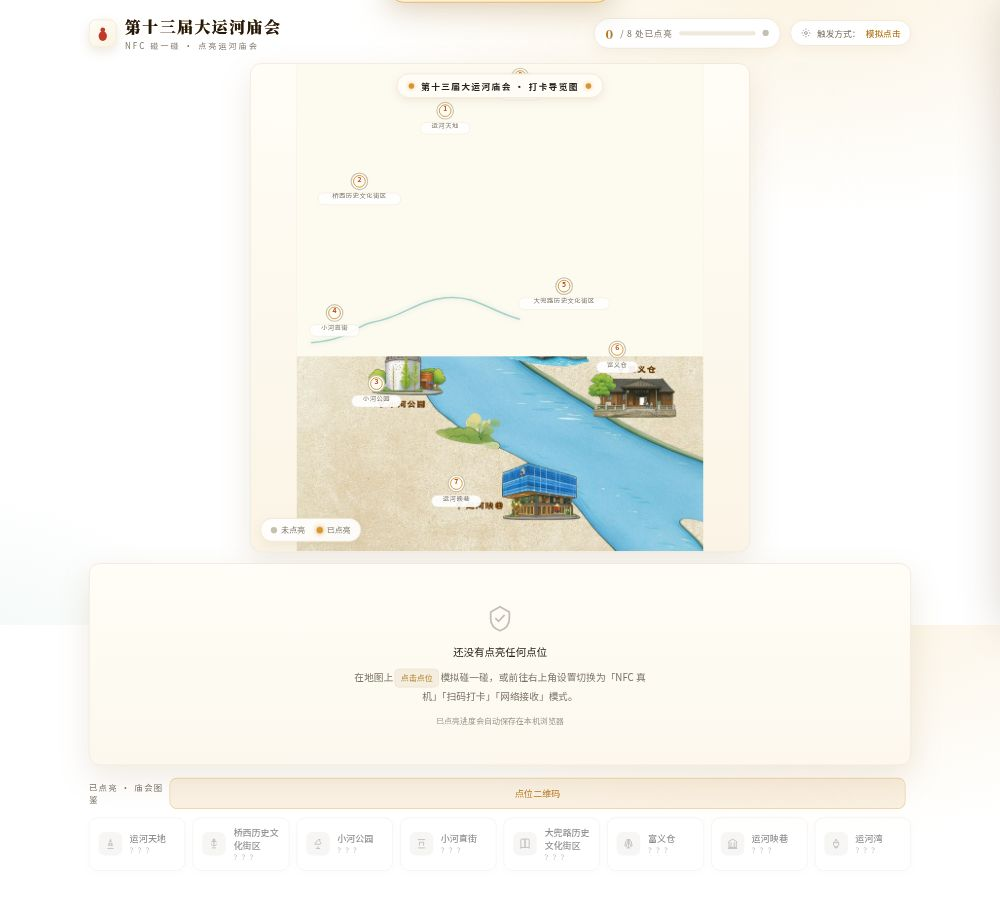
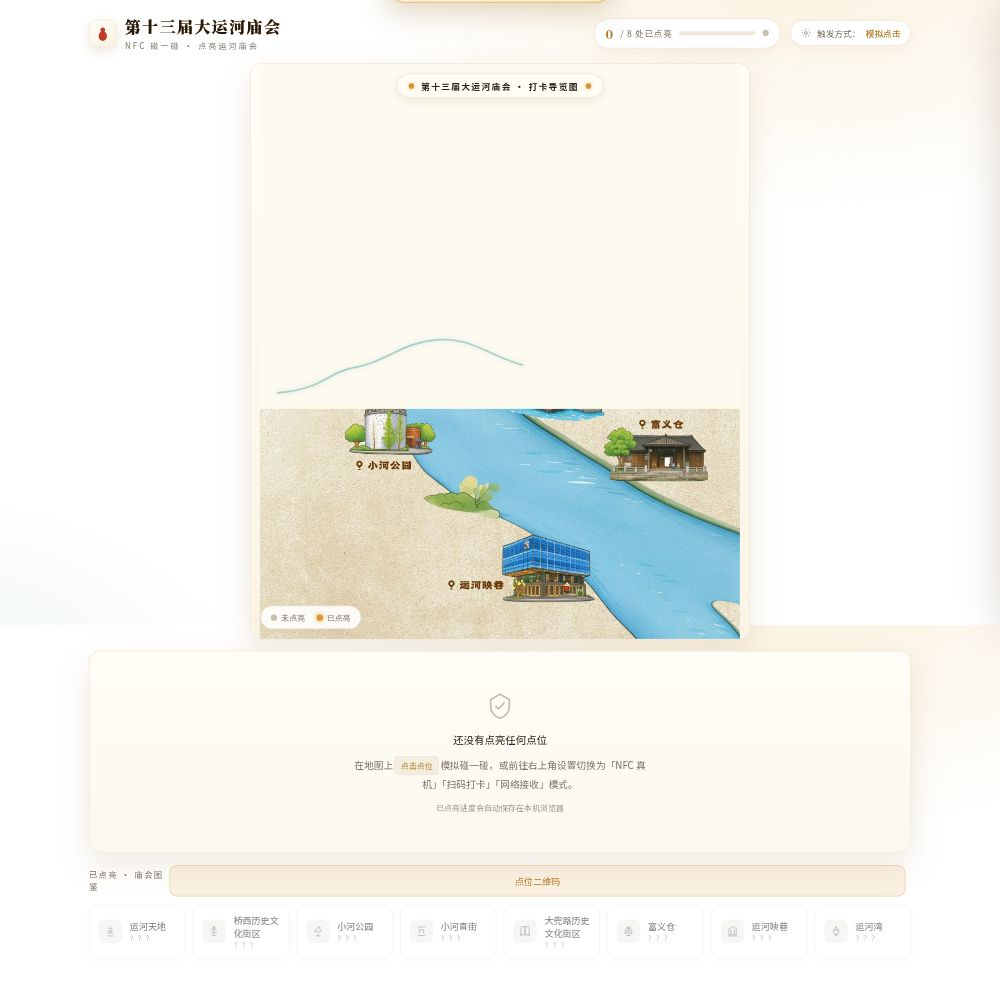
去掉程序叠编号与点位名(用户图自带)，底图放大并一屏内完整显示，点位透明热区可点

diff --git a/index.html b/index.html
@@ -70,7 +70,7 @@ button{font-family:inherit;cursor:pointer;border:none;background:none;color:inhe
   radial-gradient(900px 420px at 50% -5%, #fffdf5 0%, rgba(255,253,245,0) 60%),
   linear-gradient(180deg,#fffdf6,#fbf4e6);
   border:1px solid var(--line);box-shadow:var(--shadow);width:100%;max-width:720px;margin:0 auto}
-.stage svg.svg-map{display:block;width:auto;height:min(78vh,720px);max-width:100%;margin:0 auto}
+.stage svg.svg-map{display:block;width:auto;height:min(92vh,1000px);max-width:100%;margin:0 auto}
 .legend{position:absolute;left:14px;bottom:14px;display:flex;gap:16px;font-size:11.5px;color:var(--paper-dim);background:rgba(255,255,255,.9);backdrop-filter:blur(6px);padding:8px 14px;border-radius:999px;border:1px solid var(--line);box-shadow:0 6px 16px rgba(150,115,60,.1)}
 .legend i{display:inline-block;width:9px;height:9px;border-radius:50%;margin-right:6px;vertical-align:-1px}
 .legend .li{display:flex;align-items:center}
@@ -104,6 +104,8 @@ svg .terrain{fill:rgba(150,115,60,.05)}
 svg .island{fill:rgba(143,196,186,.16)}
 /* 自定义地图时隐藏内置插画/河流 */
 .has-map .terrain,.has-map .island,.has-map #riverPath,.has-map .deco,.has-map .pt .art{display:none}
+.has-map .pt .num,.has-map .pt .num-bg,.has-map .pt .label,.has-map .pt .label-bg,.has-map .pt .halo,.has-map .pt .pulse{display:none}
+.has-map .pt:not(.lit) .ring,.has-map .pt:not(.lit) .core{display:none}
 
 /* ===== 交互面板 ===== */
 .panel{position:relative;margin-top:16px;border-radius:var(--radius);background:linear-gradient(180deg,#fffdf6,#fcf8ee);border:1px solid var(--line);padding:22px clamp(16px,3vw,26px);box-shadow:var(--shadow);min-height:150px}
@@ -3121,6 +3123,11 @@ function buildMap(){
     const numBg = document.createElementNS(SVGNS,"circle");
     numBg.setAttribute("class","num-bg"); numBg.setAttribute("cx",mx); numBg.setAttribute("cy",my); numBg.setAttribute("r",12);
     g.appendChild(halo); g.appendChild(pulse); g.appendChild(ring); g.appendChild(core); g.appendChild(numBg); g.appendChild(num);
+    // 透明点击热区（has-map 时可见标记隐藏，仍可点击点亮）
+    const hit = document.createElementNS(SVGNS,"circle");
+    hit.setAttribute("class","hit"); hit.setAttribute("cx",mx); hit.setAttribute("cy",my); hit.setAttribute("r",36);
+    hit.setAttribute("fill","#000000"); hit.setAttribute("fill-opacity","0"); hit.setAttribute("pointer-events","all");
+    g.appendChild(hit);
     // 交互
     g.addEventListener("click", e=>{ e.stopPropagation(); if(mode==="sim" && !calMode) unlockPoint(p.id,"sim"); else if(calMode) toast("校准模式：拖动灯到对应位置即可"); else toast(mode==="scan" ? "请扫「"+p.name+"」的点位二维码点亮（只点亮这一个点位）" : "请在该点位碰卡/扫码点亮，页面内点击不生效"); });
     g.addEventListener("keydown", e=>{ if(e.key==="Enter"||e.key===" "){ e.preventDefault(); if(mode==="sim") unlockPoint(p.id,"sim"); } });
